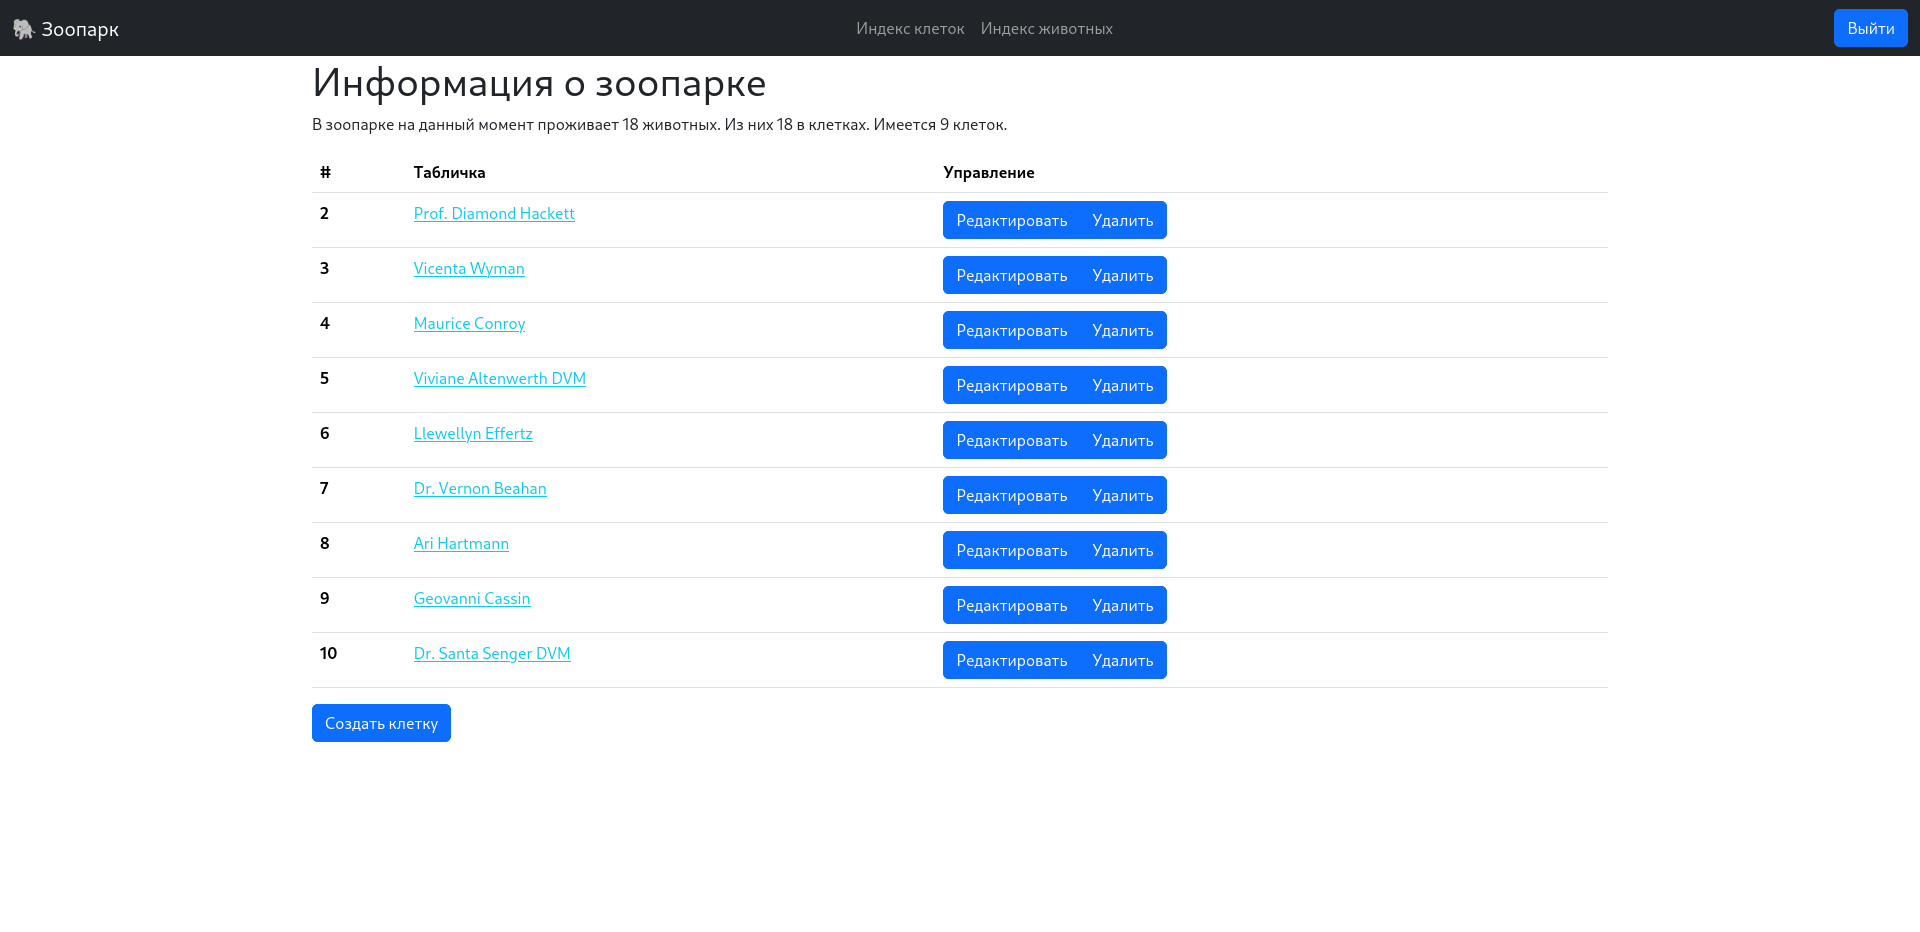
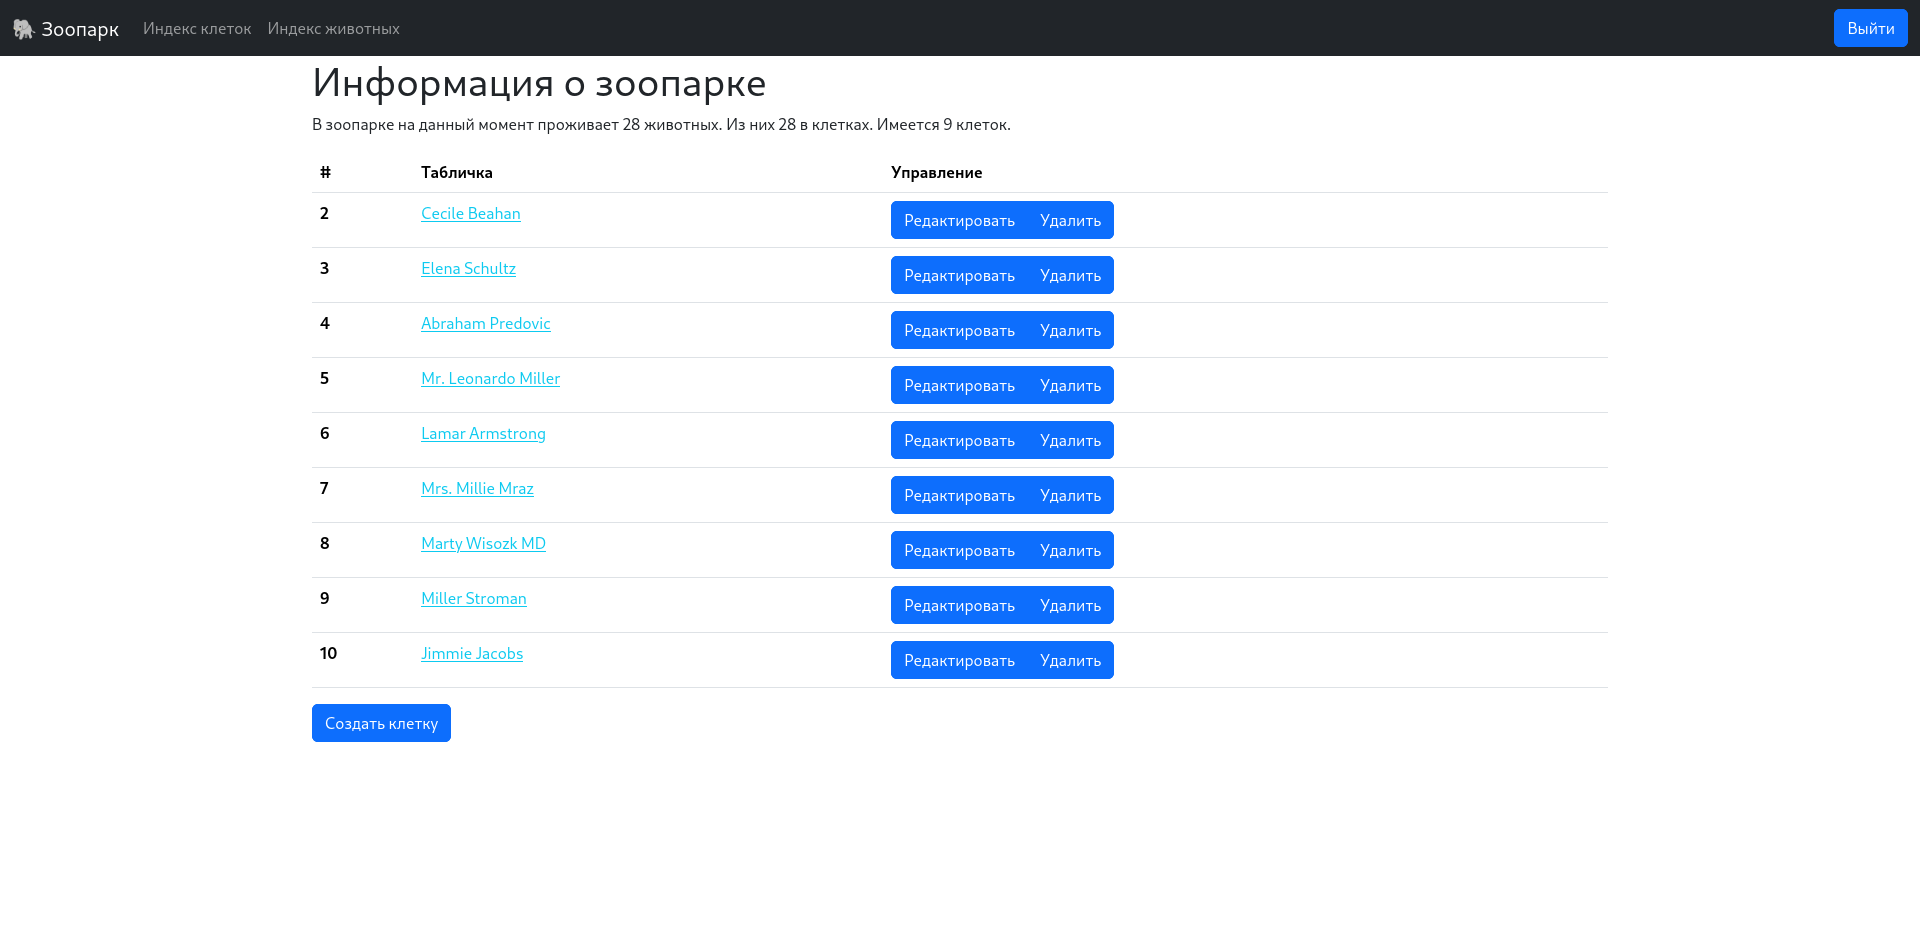
fix other bugs

diff --git a/resources/views/components/animals/animal-list-item.blade.php b/resources/views/components/animals/animal-list-item.blade.php
@@ -3,9 +3,6 @@
     <td><a class="link-info"
            href="{{ route('animals.show', $id) }}">{{ $name }}</a>
     </td>
-    <td>
-        {{ $hasCage ? 'Да' : 'Нет' }}
-    </td>
     @auth
         <td>
             <x-forms.edit-form-inline :id="$id" base="animals"></x-forms.edit-form-inline>
